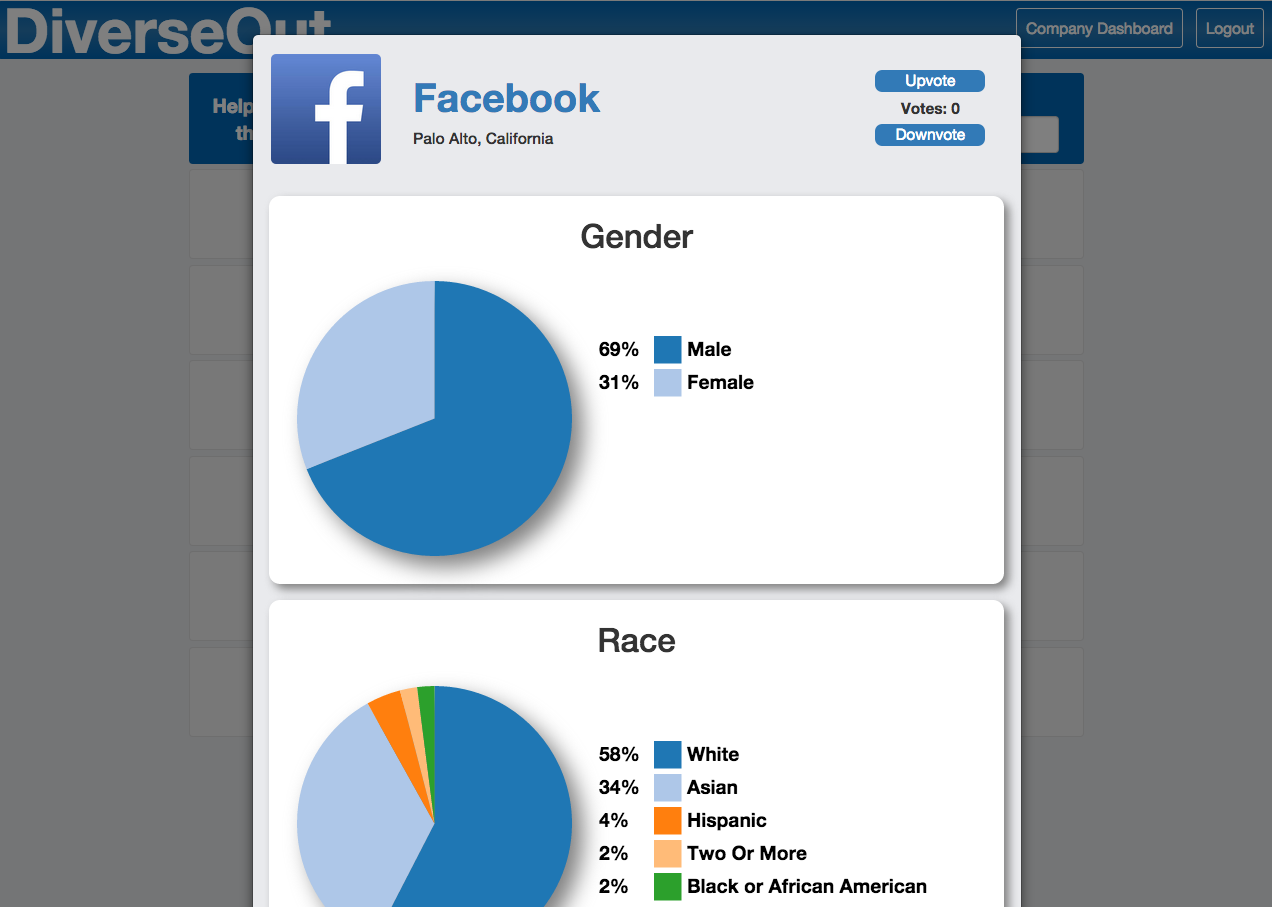
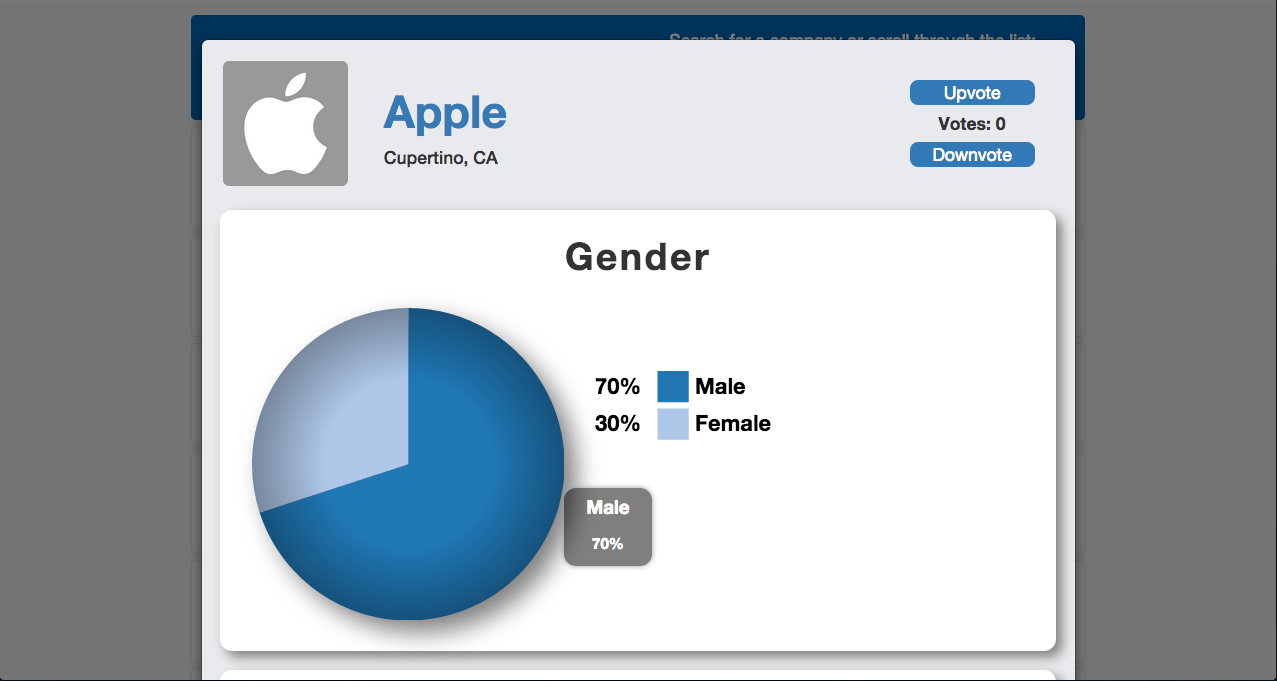
Mods README

diff --git a/public/directives/piechart-modal.dir.js b/public/directives/piechart-modal.dir.js
@@ -34,14 +34,14 @@ ourApp.directive('d3piechart', function() {
         //Clears previous content
         jQuery(element).html('');
 
-        //SVG element
+        //Make SVG element for circle
         var svg = d3.select(jQuery(element).get(0))
           .append("svg")
           .attr("class", "pie_circle")
           .attr("width", w)
-          .attr("height", h);
+          .attr("height", h)
 
-        //Set up groups
+        //Set up data groups
         var arcs = svg.selectAll("g.arc")
           .data(pie(dataset))
           .enter()
@@ -50,7 +50,9 @@ ourApp.directive('d3piechart', function() {
           .attr("transform", "translate(" + outerRadius + "," + outerRadius + ")");
 
         //Radial Gradient effect on pie chart
-        var grads = svg.append("defs").selectAll("radialGradient").data(pie(dataset))
+        var grads = svg.append("defs")
+        .selectAll("radialGradient")
+        .data(pie(dataset))
             .enter().append("radialGradient")
             .attr("gradientUnits", "userSpaceOnUse")
             .attr("cx", 0)
@@ -69,30 +71,29 @@ ourApp.directive('d3piechart', function() {
           // .attr("stroke","white")
           .attr("d", arc)
 
-     /// ToDo: Tooltip. Not working in Bootstrap.
-        var tooltip = d3.select('.pie_circle')
+        // Tooltip
+        var tooltip = d3.select('body')
           .append('div')
           .attr('class', 'tooltip');
-
         tooltip.append('div')
-          .attr('class', 'label');
-
+          .attr('class', 'tooltip-label');
         tooltip.append('div')
           .attr('class', 'percentage');
-        ///
 
-        arcs.on('mouseover', function(d) {
-          console.log(d.data)
-          tooltip.select('.label').html("<p>"+d.data.attribute_title+"</p>")
-          tooltip.select('.percentage').html("<p>"+d.data.percentage+"</p>")
+        arcs.on('mouseover', function(d,i) {
+          tooltip.select('.tooltip-label').html("<p>"+d.data.attribute_title+"</p>")
+          tooltip.select('.percentage').html("<p>"+d.data.percentage+"%</p>")
           tooltip.style('display', 'block');
         });
+
+        arcs.on("mousemove", function(){return tooltip.style("top", (event.pageY-7)+"px").style("left",(event.pageX+7)+"px");})
 
         arcs.on('mouseout', function() {
           tooltip.style('display', 'none');
         });
 
         //Legend
+          //ToDo: Legend not displaying more than five lines
         var legend = d3.select(jQuery(element).get(0))
           .append("svg")
             .attr("class", "legend")

diff --git a/public/partials/app.css b/public/partials/app.css
@@ -166,6 +166,13 @@ input.form-control[value="Submit"] {
   font-weight: bold
 }
 
+.individual-attributes .list-group-item:hover{
+  background-color: #f1f1f1;
+  text-decoration: none;
+  color:black;
+  font-weight: normal;
+}
+
 .attribute_list_selected_item {
   background:#0066b4;
   color:white;
@@ -356,21 +363,32 @@ input.form-control[value="Submit"] {
   font-size: 1.5em;
 }
 
-/*.tooltip {
-  background: #eee;
+.tooltip {
+  background: rgba(0,0,0,0.5);
   box-shadow: 0 0 5px #999999;
-  color: #333;
-  visibility: visible;
+  color: white;
+  display:none;
   font-size: 12px;
   left: 130px;
-  padding: 10px;
+  padding: 0 18px;
+  border-radius:10px;
   position: absolute;
   text-align: center;
   top: 95px;
-  width: 80px;
+  width: auto;
   z-index: 20000 !important;
-}*/
+  opacity:1;
+}
 
+.tooltip-label {
+  font-size: 1.25em;
+  font-weight: bold;
+  padding-top: 5px;
+}
+
+.percentage {
+  font-weight: bold
+}
 
 @media screen and (min-width: 992px){
   .modal-lg {

diff --git a/public/controllers/survey.ctrl.js b/public/controllers/survey.ctrl.js
@@ -6,6 +6,8 @@ ourApp.controller("ShowSurveyController", ['$scope', '$http', '$route', '$cookie
   // TODO: This uses $http and later $.ajax, which is inconsistent
   // Use only one ajax method!
 
+  // TODO: Set cookie when response is submitted so they can't easily submit multiple forms.
+
   $http({
     method: 'GET',
     url: API_ROOT + 'companies/'+$scope.companyId+'/surveys/'+$scope.surveyId,

diff --git a/public/partials/create_survey.html b/public/partials/create_survey.html
@@ -25,7 +25,7 @@
           </input></h4>
         </div>
       </li>
-        <ul>
+        <ul class="individual-attributes">
           <li class="list-group-item" ng-show="showDetails" ng-repeat="attribute in group.individual_attributes">{{attribute.attribute_name}}</li>
         </ul>
     </ul>

diff --git a/server.js b/server.js
@@ -2,7 +2,6 @@
 // BASE SETUP
 // =============================================================================
 
-
 // call the packages we need
 var express    = require('express');        // call express
 var app        = express();                 // define our app using express

diff --git a/public/index.html b/public/index.html
@@ -41,7 +41,6 @@
     <script src="vendor/sha1.js"></script>
     <!-- D3 -->
     <script src="vendor/d3.min.js"></script>
-    <script src="vendor/d3pie.min.js"></script>
 
     <!-- CONTROLLERS -->
     <script src="controllers/init.js"></script>

diff --git a/README.md b/README.md
@@ -11,6 +11,7 @@ Read [more thoughts](http://philril.github.io/blog/c4-tech-issues.html) on why d
 ![diverseout_screenshot](images/DiverseOut_2.png)
 ![diverseout_screenshot](images/DiverseOut_4.png)
 ![diverseout_screenshot](images/DiverseOut_3.png)
+![diverseout_screenshot](images/DiverseOut_5.png)
 
 ##### Local setup instructions:
 - Download and install the [Nodemon](https://github.com/remy/nodemon) npm package.
